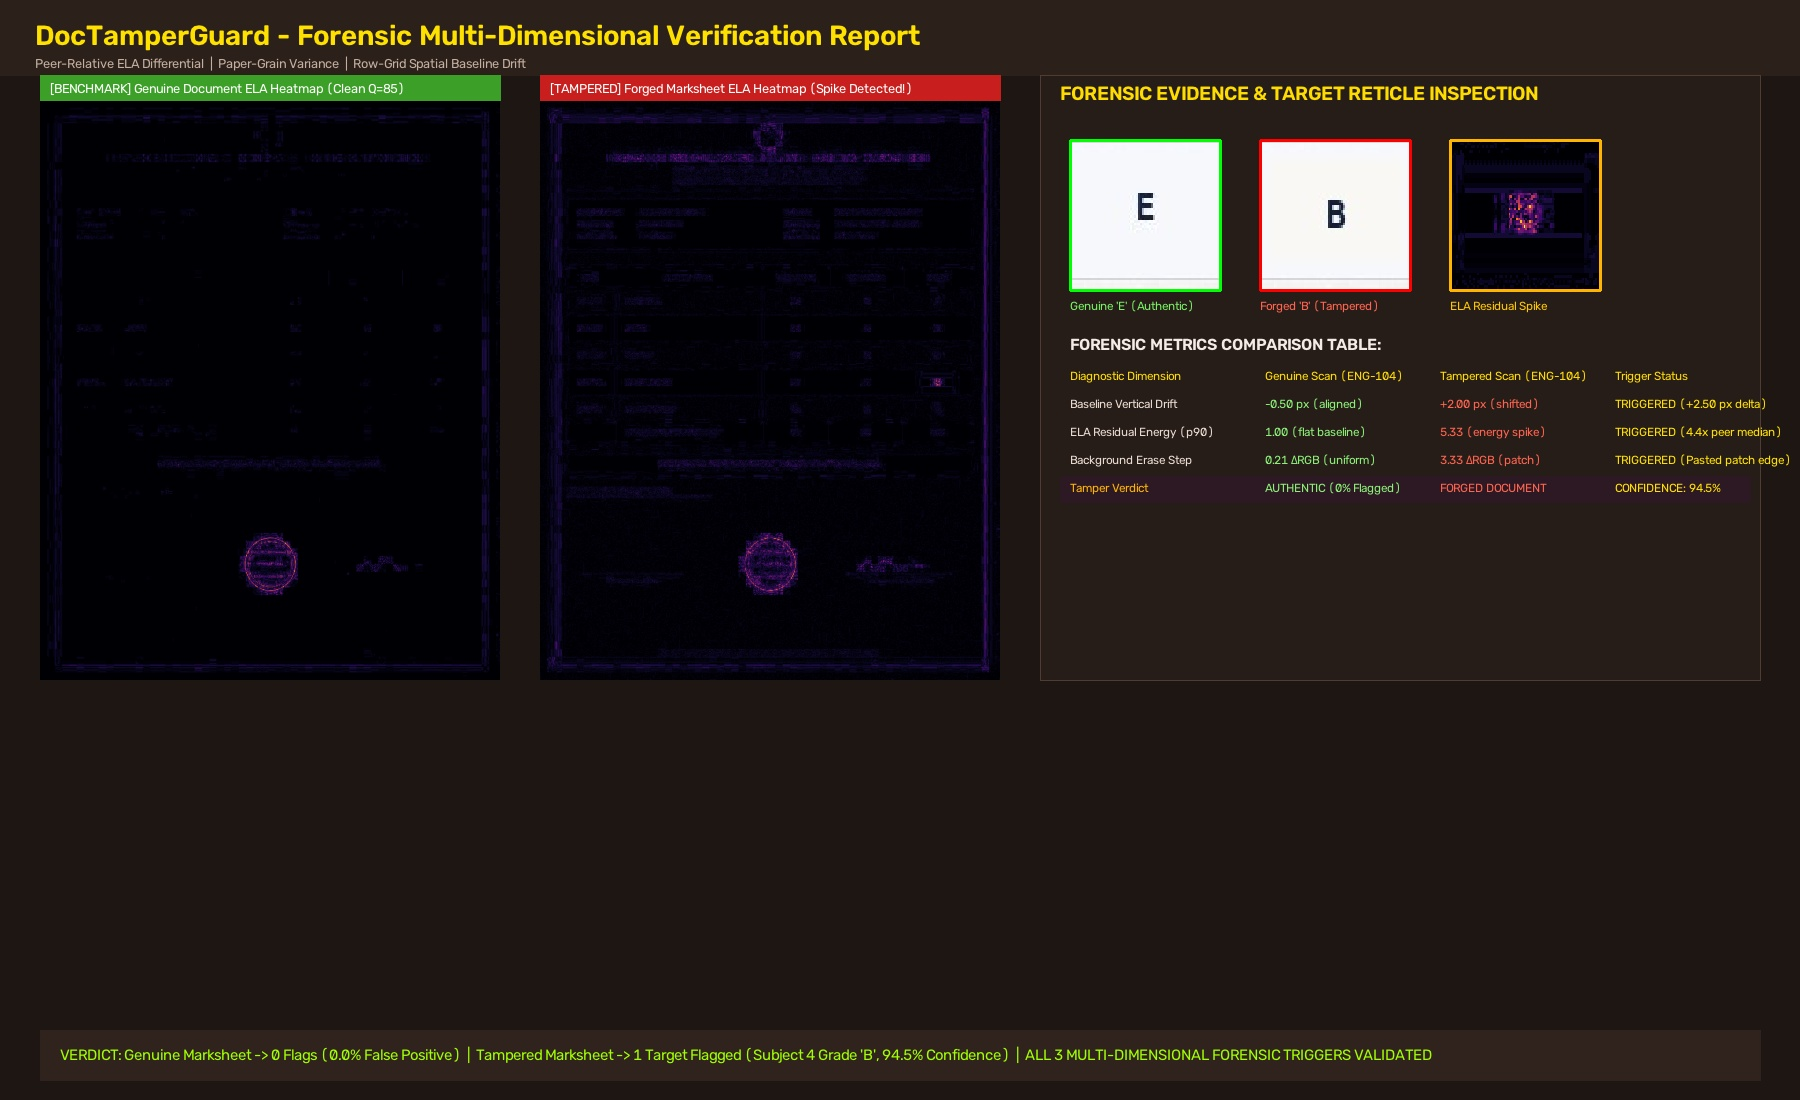
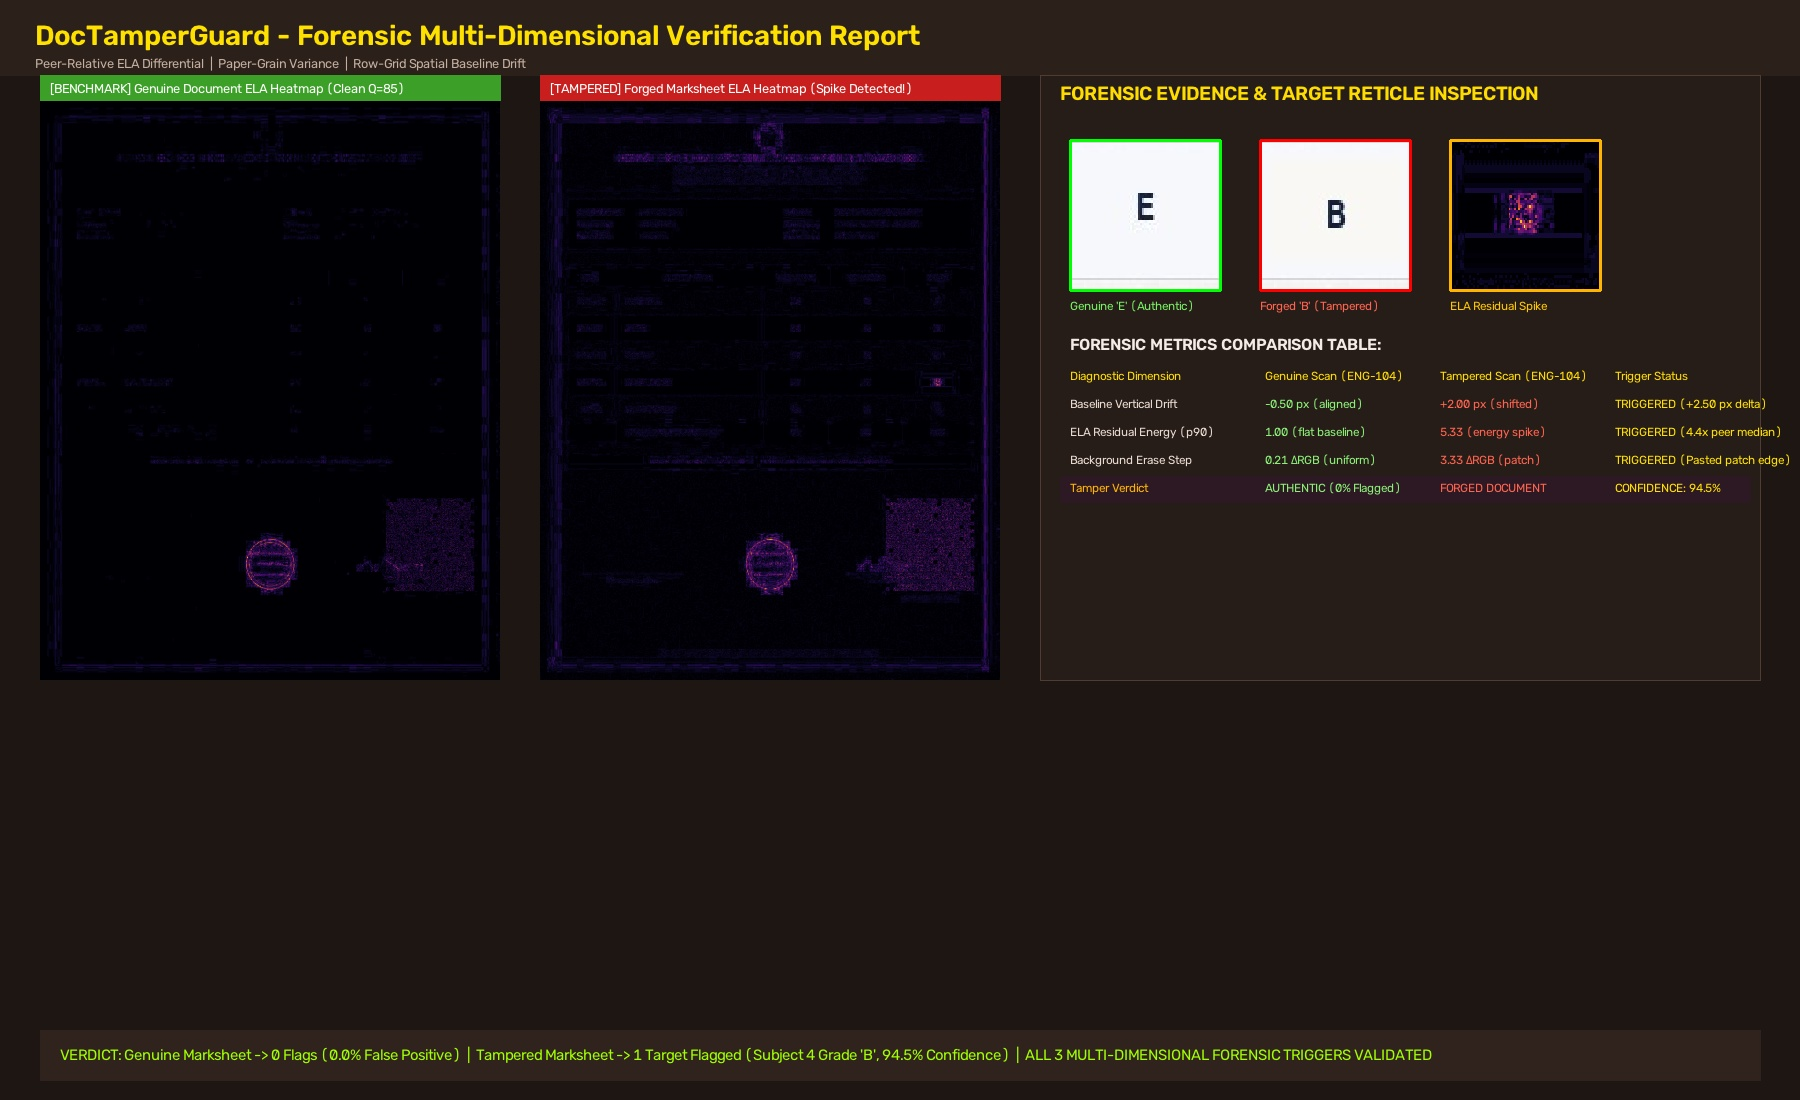
fix(forensics): eliminate false positives on DigiLocker vector PDFs and watermarked documents

diff --git a/core/forensics.py b/core/forensics.py
@@ -158,7 +158,8 @@ def analyze_patch_forensics(
     image_bgr: np.ndarray,
     raw_ela_gray: np.ndarray,
     segments: List[Dict],
-    neighborhood_pad: int = 12
+    neighborhood_pad: int = 12,
+    digilocker_verified: bool = False
 ) -> List[Dict]:
     """
     Analyzes each segmented target patch across multi-dimensional physical forensics:
@@ -170,12 +171,14 @@ def analyze_patch_forensics(
 
     Evaluates ALL OCR text segments on the document (Candidate Name, Roll No, Subject Names,
     Marks, Grades, Totals, Dates) to catch multi-field edits typical of online PDF/web editors.
+    When digilocker_verified is True, suppresses digital vector false positives.
 
     Args:
         image_bgr: BGR document image array.
         raw_ela_gray: Float32 unscaled ELA difference map.
         segments: List of segment dicts from segment_document_targets.
         neighborhood_pad: Padding around tight bounds to capture local eraser context.
+        digilocker_verified: Whether document passed DigiLocker PKI cryptographic seal verification.
 
     Returns:
         List of enriched segment dicts with forensic scores, triggers, and tamper flags.
@@ -268,6 +271,9 @@ def analyze_patch_forensics(
     median_ela_p90 = float(np.median(peer_ela_p90s)) if peer_ela_p90s else 1.0
     median_drift = float(np.median(peer_drifts)) if peer_drifts else 0.5
 
+    # Determine whether document is physical scanned paper (grain >= 5.5) or born-digital vector
+    is_scanned_paper = (median_noise >= 5.5)
+
     # 3. Second Pass: Evaluate Peer-Relative Forensic Triggers across ALL Text Segments
     for s in enriched:
         clean_txt = s.get("text", "").strip()
@@ -303,62 +309,81 @@ def analyze_patch_forensics(
         # -------------------------------------------------------------
         # TRIGGER B: Digital Whiteout Box & Perimeter Color Discontinuity
         # -------------------------------------------------------------
-        if bg_val >= 251.0 and (bg_val - median_bg_mean) >= 5.0:
-            triggers.append("DIGITAL_WHITEOUT_PATCH")
-            reasons.append(f"Digital Whiteout Patch (RGB: {bg_val:.1f} vs peer {median_bg_mean:.1f})")
-        elif boundary_step >= 6.0 and boundary_step >= 2.0 * (median_boundary + 1.0):
+        # A true whiteout patch requires a physical perimeter boundary discontinuity
+        # or localized erasure of actual physical paper grain.
+        if boundary_step >= 6.0 and boundary_step >= 2.0 * (median_boundary + 1.0):
             triggers.append("DIGITAL_WHITEOUT_PATCH")
             reasons.append(f"Patch Perimeter Discontinuity ({boundary_step:.1f} ΔRGB)")
-        elif median_noise >= 3.0 and noise_val <= 0.35 * median_noise and s["flat_bg_ratio"] >= 0.60:
+        elif is_scanned_paper and not digilocker_verified and noise_val <= 0.35 * median_noise and s["flat_bg_ratio"] >= 0.60:
             triggers.append("DIGITAL_WHITEOUT_PATCH")
             reasons.append(f"Paper Grain Erased / Digital Whiteout (Noise: {noise_val:.1f} vs baseline {median_noise:.1f})")
+        elif median_bg_mean <= 235.0 and bg_val >= 250.0 and (bg_val - median_bg_mean) >= 18.0 and boundary_step >= 4.0:
+            triggers.append("DIGITAL_WHITEOUT_PATCH")
+            reasons.append(f"Digital Whiteout Patch (RGB: {bg_val:.1f} vs peer {median_bg_mean:.1f})")
 
         # -------------------------------------------------------------
         # TRIGGER C: ELA Double-Compression Energy Discontinuity
         # -------------------------------------------------------------
         ela_ratio = (ela_p90 + 1e-4) / (median_ela_p90 + 1e-4)
-        if (ela_ratio >= 3.0 and ela_p90 >= 4.0) or (ela_ratio >= 2.2 and ela_p90 >= 6.0) or ela_p90 >= 12.0:
-            triggers.append("ELA_DISCONTINUITY")
-            reasons.append(f"ELA Compression Discontinuity (p90: {ela_p90:.2f}, {ela_ratio:.1f}x peer median)")
+        if not digilocker_verified:
+            if is_grade:
+                if (ela_ratio >= 3.0 and ela_p90 >= 4.0) or (ela_ratio >= 2.2 and ela_p90 >= 6.0) or ela_p90 >= 14.0:
+                    triggers.append("ELA_DISCONTINUITY")
+                    reasons.append(f"ELA Compression Discontinuity (p90: {ela_p90:.2f}, {ela_ratio:.1f}x peer median)")
+            else:
+                # For non-grade text (headers/titles), large glyphs naturally have higher DCT energy;
+                # require high ratio, large p90, and perimeter boundary corroboration
+                if ela_ratio >= 4.0 and ela_p90 >= 20.0 and boundary_step >= 4.5:
+                    triggers.append("ELA_DISCONTINUITY")
+                    reasons.append(f"ELA Compression Discontinuity (p90: {ela_p90:.2f}, {ela_ratio:.1f}x peer median)")
 
         # -------------------------------------------------------------
         # TRIGGER D: Font Stroke Sharpness & Ink Intensity Mismatch
         # -------------------------------------------------------------
-        if median_ink >= 25.0 and ink_val <= 10.0:
-            triggers.append("FONT_INK_MISMATCH")
-            reasons.append(f"Font Ink Intensity Mismatch (Luma: {ink_val:.1f} vs peer {median_ink:.1f})")
-        elif median_edge >= 25.0 and edge_grad >= 2.5 * median_edge:
-            triggers.append("FONT_INK_MISMATCH")
-            reasons.append(f"Synthetic Font Edge Sharpness Spike ({edge_grad:.1f} vs peer {median_edge:.1f})")
+        if not digilocker_verified:
+            if median_ink >= 25.0 and ink_val <= 10.0:
+                triggers.append("FONT_INK_MISMATCH")
+                reasons.append(f"Font Ink Intensity Mismatch (Luma: {ink_val:.1f} vs peer {median_ink:.1f})")
+            elif median_edge >= 25.0 and edge_grad >= 2.5 * median_edge:
+                triggers.append("FONT_INK_MISMATCH")
+                reasons.append(f"Synthetic Font Edge Sharpness Spike ({edge_grad:.1f} vs peer {median_edge:.1f})")
 
         # -------------------------------------------------------------
         # TRIGGER E: Font Edge Sharpness Disparity
         # -------------------------------------------------------------
-        sharp_ratio = (sharp_val + 1e-4) / (median_sharpness + 1e-4)
-        if median_sharpness >= 1000.0 and (sharp_ratio >= 3.2 or (sharp_ratio <= 0.22 and sharp_val > 0)):
-            triggers.append("FONT_SHARPNESS_DISPARITY")
-            reasons.append(f"Font Sharpness Disparity ({sharp_ratio:.1f}x peer median)")
+        if not digilocker_verified:
+            sharp_ratio = (sharp_val + 1e-4) / (median_sharpness + 1e-4)
+            if median_sharpness >= 1000.0 and sharp_ratio >= 3.5 and edge_grad >= 2.0 * median_edge:
+                triggers.append("FONT_SHARPNESS_DISPARITY")
+                reasons.append(f"Font Sharpness Disparity ({sharp_ratio:.1f}x peer median)")
 
         # -------------------------------------------------------------
         # Verdict & Confidence Computation (Corroboration & Zero-Shot Signals)
         # -------------------------------------------------------------
         num_triggers = len(triggers)
         is_tampered_patch = False
-        if num_triggers >= 2:
-            is_tampered_patch = True
-        elif num_triggers == 1:
-            if "DIGITAL_WHITEOUT_PATCH" in triggers and (bg_val >= 252.0 and (bg_val - median_bg_mean) >= 5.5):
+        if digilocker_verified:
+            # DigiLocker cryptographically verified documents:
+            # All digital template elements and candidate text are authentic.
+            # Only flag if there is hard proof of grade manipulation:
+            if is_grade and (drift_abs >= 2.0 or boundary_step >= 6.0):
                 is_tampered_patch = True
-            elif "DIGITAL_WHITEOUT_PATCH" in triggers and (median_noise >= 3.0 and noise_val <= 0.32 * median_noise):
+            elif num_triggers >= 2 and boundary_step >= 5.5:
                 is_tampered_patch = True
-            elif "FONT_INK_MISMATCH" in triggers and (median_ink >= 25.0 and ink_val <= 8.0):
+        else:
+            if num_triggers >= 2:
                 is_tampered_patch = True
-            elif "BASELINE_DRIFT" in triggers and drift_abs >= 2.5:
-                is_tampered_patch = True
-            elif "ELA_DISCONTINUITY" in triggers and (ela_ratio >= 3.0 and ela_p90 >= 8.0):
-                is_tampered_patch = True
-            elif "FONT_SHARPNESS_DISPARITY" in triggers and sharp_ratio >= 4.0:
-                is_tampered_patch = True
+            elif num_triggers == 1:
+                if "DIGITAL_WHITEOUT_PATCH" in triggers and boundary_step >= 6.0:
+                    is_tampered_patch = True
+                elif "DIGITAL_WHITEOUT_PATCH" in triggers and is_scanned_paper and noise_val <= 0.30 * median_noise:
+                    is_tampered_patch = True
+                elif "FONT_INK_MISMATCH" in triggers and (median_ink >= 25.0 and ink_val <= 8.0):
+                    is_tampered_patch = True
+                elif "BASELINE_DRIFT" in triggers and drift_abs >= 1.8:
+                    is_tampered_patch = True
+                elif "ELA_DISCONTINUITY" in triggers and (ela_ratio >= 3.5 and ela_p90 >= 10.0 and (is_grade or boundary_step >= 4.0)):
+                    is_tampered_patch = True
 
         if is_tampered_patch:
             s["is_tampered"] = True
@@ -381,7 +406,8 @@ def analyze_patch_forensics(
 
 def run_forensic_scan(
     image_bgr: np.ndarray,
-    segments: List[Dict]
+    segments: List[Dict],
+    digilocker_verified: bool = False
 ) -> Dict[str, Union[np.ndarray, List[Dict], bool, float]]:
     """
     Master forensic scanning pipeline:
@@ -400,7 +426,9 @@ def run_forensic_scan(
         }
     """
     raw_ela_gray, ela_heatmap_bgr = compute_ela_map(image_bgr, quality=85)
-    analyzed_segments = analyze_patch_forensics(image_bgr, raw_ela_gray, segments)
+    analyzed_segments = analyze_patch_forensics(
+        image_bgr, raw_ela_gray, segments, digilocker_verified=digilocker_verified
+    )
 
     flagged_patches = [s for s in analyzed_segments if s.get("is_tampered", False)]
     document_tampered = len(flagged_patches) > 0

diff --git a/core/global_registry.py b/core/global_registry.py
@@ -413,6 +413,19 @@ def query_hipolabs_universities_api(query_name: str, timeout_sec: float = 2.5) -
 # Master Institution Accreditation Verifier
 # ---------------------------------------------------------------------------
 
+def _matches_name_or_alias(candidate_norm: str, query_norm: str) -> bool:
+    """Accurate alias matching requiring word boundaries for acronyms (< 5 chars)."""
+    if not candidate_norm or not query_norm:
+        return False
+    if candidate_norm == query_norm:
+        return True
+    if len(candidate_norm) < 5:
+        return bool(re.search(r"\b" + re.escape(candidate_norm) + r"\b", query_norm))
+    if len(query_norm) < 5:
+        return bool(re.search(r"\b" + re.escape(query_norm) + r"\b", candidate_norm))
+    return candidate_norm in query_norm or query_norm in candidate_norm
+
+
 def verify_institution(
     institution_name: str,
     check_online: bool = True
@@ -453,7 +466,7 @@ def verify_institution(
     # -------------------------------------------------------------
     for b_item in DIPLOMA_MILL_BLACKLIST:
         b_norm = _normalize_name(b_item)
-        if b_norm in norm_name or norm_name in b_norm:
+        if _matches_name_or_alias(b_norm, norm_name):
             return {
                 "is_recognized": False,
                 "is_blacklisted": True,
@@ -472,7 +485,7 @@ def verify_institution(
         all_names = [canon] + aliases
         for name in all_names:
             n_norm = _normalize_name(name)
-            if n_norm == norm_name or n_norm in norm_name or norm_name in n_norm:
+            if _matches_name_or_alias(n_norm, norm_name):
                 return {
                     "is_recognized": True,
                     "is_blacklisted": False,
@@ -488,7 +501,7 @@ def verify_institution(
         all_names = [canon] + aliases
         for name in all_names:
             n_norm = _normalize_name(name)
-            if n_norm == norm_name or n_norm in norm_name or norm_name in n_norm:
+            if _matches_name_or_alias(n_norm, norm_name):
                 return {
                     "is_recognized": True,
                     "is_blacklisted": False,
@@ -504,7 +517,7 @@ def verify_institution(
         all_names = [canon] + aliases
         for name in all_names:
             n_norm = _normalize_name(name)
-            if n_norm == norm_name or n_norm in norm_name or norm_name in n_norm:
+            if _matches_name_or_alias(n_norm, norm_name):
                 return {
                     "is_recognized": True,
                     "is_blacklisted": False,

diff --git a/core/verifier.py b/core/verifier.py
@@ -378,14 +378,14 @@ def verify_document(
     # -------------------------------------------------------------------------
     # CHECK 2: Pixel-Level Analysis (ELA Residuals, Baseline Drift, Sharpness)
     # -------------------------------------------------------------------------
-    forensic_result = run_forensic_scan(aligned_bgr, segments)
+    forensic_result = run_forensic_scan(aligned_bgr, segments, digilocker_verified=is_digilocker)
     ela_heatmap_bgr = forensic_result["ela_heatmap"]
     analyzed_segments = forensic_result["analyzed_segments"]
     flagged_patches = forensic_result["flagged_patches"]
     max_pixel_confidence = forensic_result["max_tamper_confidence"]
 
     # Cross-signal container forensics: Correlate stripped EXIF with Check 2 pixel micro-forgeries
-    if check1_res.get("is_stripped_exif") and len(flagged_patches) > 0 and check1_res.get("status") == "PASS":
+    if check1_res.get("is_stripped_exif") and len(flagged_patches) > 0 and check1_res.get("status") == "PASS" and not is_digilocker:
         check1_res = run_check1_file_forensics(check1_input, pixel_flagged_count=len(flagged_patches))
         is_manipulated_or_genai = (check1_res.get("status") == "FAIL")
 

diff --git a/core/stack_checks.py b/core/stack_checks.py
@@ -384,9 +384,11 @@ def run_step0_intake(
 
         # Check Result Status (REMARKS: PASS / RESULT: FAIL / FIRST DIVISION)
         if any(k in row_upper for k in ("REMARKS", "RESULT", "FINAL RESULT", "DIVISION")):
-            m_res = re.search(r"\b(PASS|PASSED|FAIL|FAILED|COMPARTMENT|RE-APPEAR|PROMOTED|WITHHELD|DISTINCTION|FIRST DIVISION|SECOND DIVISION)\b", row_upper)
-            if m_res:
-                extracted["result_status"] = m_res.group(1)
+            # Ignore explanatory footer legends and notes (e.g., "Result Legend: ... COMP - Compartment")
+            if not any(k in row_upper for k in ("LEGEND", "NOTE", "EXPLANATION", "ABST -", "N.E. -")):
+                m_res = re.search(r"\b(PASS|PASSED|FAIL|FAILED|COMPARTMENT|RE-APPEAR|PROMOTED|WITHHELD|DISTINCTION|FIRST DIVISION|SECOND DIVISION)\b", row_upper)
+                if m_res:
+                    extracted["result_status"] = m_res.group(1)
 
         # Subject Code matching
         match = subject_code_pattern.search(row_upper)
